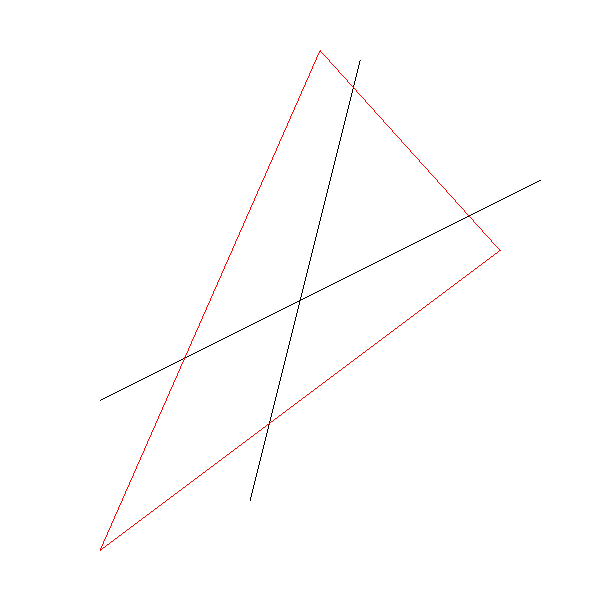
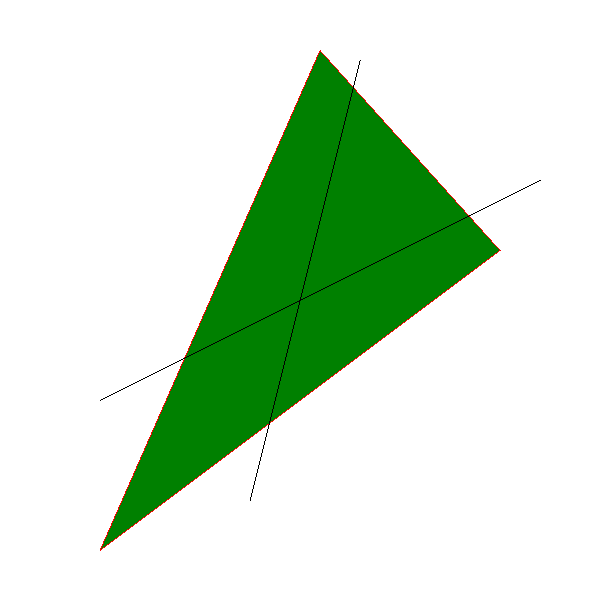
Implement the `DrawFilledTriangle` method.

Changed region(s): [[0.18, 0.09, 0.84, 0.9]]

diff --git a/Utils/Canvas.cs b/Utils/Canvas.cs
@@ -1,7 +1,6 @@
 using System.Drawing;
 using System.Drawing.Imaging;
 using System.Numerics;
-using RasterizationRenderer.Utils;
 
 namespace RasterizationRenderer.Utils
 {
@@ -72,6 +71,50 @@ namespace RasterizationRenderer.Utils
             DrawLine(p0, p1, color);
             DrawLine(p1, p2, color);
             DrawLine(p2, p0, color);
+        }
+
+        public void DrawFilledTriangle(Vector2 p0, Vector2 p1, Vector2 p2, Color color)
+        {
+            // Order vertices from bottom (p0) to top (p2)
+            if (p1.Y < p0.Y) { (p0, p1) = (p1, p0); }
+            if (p2.Y < p0.Y) { (p2, p0) = (p0, p2); }
+            if (p2.Y < p1.Y) { (p2, p1) = (p1, p2); }
+
+            // Compute values of x for the three sides of the triangle
+            List<float> x01 = Interpolator.Interpolate((int)p0.Y, p0.X, (int)p1.Y, p1.X);
+            List<float> x12 = Interpolator.Interpolate((int)p1.Y, p1.X, (int)p2.Y, p2.X);
+            List<float> x02 = Interpolator.Interpolate((int)p0.Y, p0.X, (int)p2.Y, p2.X);
+
+            // Remove repeated value in `x01`
+            x01.RemoveAt(x01.Count - 1);
+
+            // Concatenate lists to find the x values of the 'long' side of the triangle
+            List<float> x012 = (x01.Concat(x12)).ToList();
+
+            // Determine which is the left side and which is the right side by comparing
+            // the x values at the middle height
+            List<float> xLeft, xRight;
+            int m = (int)MathF.Floor(x012.Count / 2);
+            if (x02[m] < x012[m])
+            {
+                xLeft = x02;
+                xRight = x012;
+            }
+            else
+            {
+                xLeft = x012;
+                xRight = x02;
+            }
+
+            // Draw all the lines. I'm not using the `DrawLine` method here because this is simpler,
+            // all are horizontal lines
+            for (int y = (int)p0.Y;  y <= p2.Y; y++)
+            {
+                for (int x = (int)xLeft[y - (int)p0.Y]; x <= xRight[y - (int)p0.Y]; x++)
+                {
+                    PutPixel(x, y, color);
+                }
+            }
         }
 
         private void PutPixel(float x, float y, Color color)

diff --git a/Program.cs b/Program.cs
@@ -13,9 +13,10 @@ namespace RasterizationRenderer
             Color BACKGROUND_COLOR = Color.White;
 
             Canvas canvas = new(WIDTH, HEIGHT, BACKGROUND_COLOR);
+            canvas.DrawFilledTriangle(new Vector2(-200, -250), new Vector2(200, 50), new Vector2(20, 250), Color.Green);
+            canvas.DrawWireframeTriangle(new Vector2(-200, -250), new Vector2(200, 50), new Vector2(20, 250), Color.Red);
             canvas.DrawLine(new Vector2(-200, -100), new Vector2(240, 120), Color.Black);
             canvas.DrawLine(new Vector2(-50, -200), new Vector2(60, 240), Color.Black);
-            canvas.DrawWireframeTriangle(new Vector2(-200, -250), new Vector2(200, 50), new Vector2(20, 250), Color.Red);
             canvas.SaveToFile("image.png");
         }
     }
